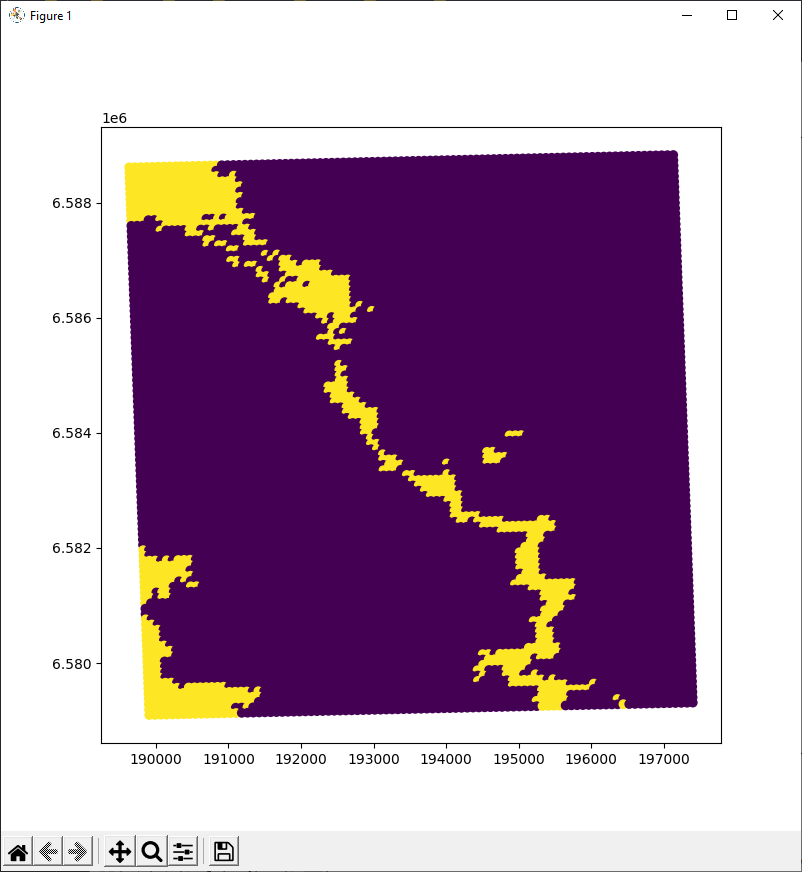
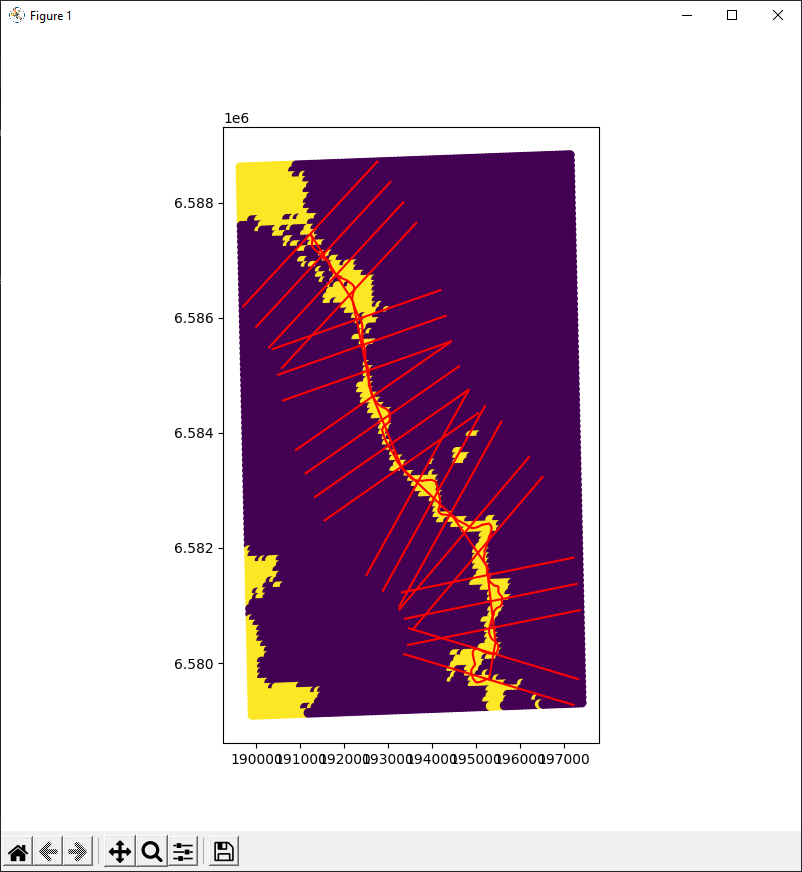
secs no mapa

diff --git a/gui.py b/gui.py
@@ -111,8 +111,11 @@ def calcular():
     mancha = np.where(v_int > z, 1, 0)
     
     print('Feche a janela do mapa para continuar.')
-    plt.figure(figsize=(8,8))
-    plt.scatter(xcoords, ycoords, c=mancha)
+    fig, ax = plt.subplots(figsize=(8,8))
+    ax.scatter(xcoords, ycoords, c=mancha)
+    s.crs = 'EPSG:4326'
+    st = s.to_crs(epsg=31982)
+    s.plot(ax=ax, color='red')
     plt.show()
 
     kml_flname = asksaveasfilename(defaultextension=".kml")
